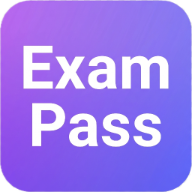
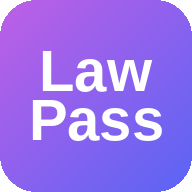
앱 아이콘/OG 이미지의 "ExamPass" 텍스트를 "LawPass"로 교체
파비콘(app/icon.png), PWA 아이콘(icon-192/512), 카카오톡·슬랙 링크 미리보기에
쓰이는 OG 이미지(icon-512), apple-icon, 32x32 아이콘까지 전부 같은 그라데이션
스타일을 유지하면서 텍스트만 LawPass로 다시 그렸다. 캐시 때문에 이전 이미지가
계속 보이는 걸 막으려고 쿼리스트링 캐시버스터도 v2 → v3로 올렸다.

Claude-Session: https://claude.ai/code/session_01WZhvar4m36HpNrMVqD2QiM

Changed region(s): [[0.0938, 0.2188, 0.9062, 0.7812], [0.0, 0.0, 1.0, 1.0], [0.1875, 0.9688, 0.25, 1.0]]

diff --git a/app/layout.tsx b/app/layout.tsx
@@ -25,10 +25,10 @@ export const metadata: Metadata = {
   },
   icons: {
     icon: [
-      { url: '/icon-192.png?v=2', sizes: '192x192', type: 'image/png' },
-      { url: '/icon-512.png?v=2', sizes: '512x512', type: 'image/png' },
+      { url: '/icon-192.png?v=3', sizes: '192x192', type: 'image/png' },
+      { url: '/icon-512.png?v=3', sizes: '512x512', type: 'image/png' },
     ],
-    apple: '/icon-192.png?v=2',
+    apple: '/icon-192.png?v=3',
   },
   openGraph: {
     title: 'LawPass AI — 변호사시험 AI 학습 플랫폼',
@@ -36,7 +36,7 @@ export const metadata: Metadata = {
     siteName: 'LawPass AI',
     images: [
       {
-        url: '/icon-512.png?v=2',
+        url: '/icon-512.png?v=3',
         width: 512,
         height: 512,
         alt: 'LawPass AI Logo',
